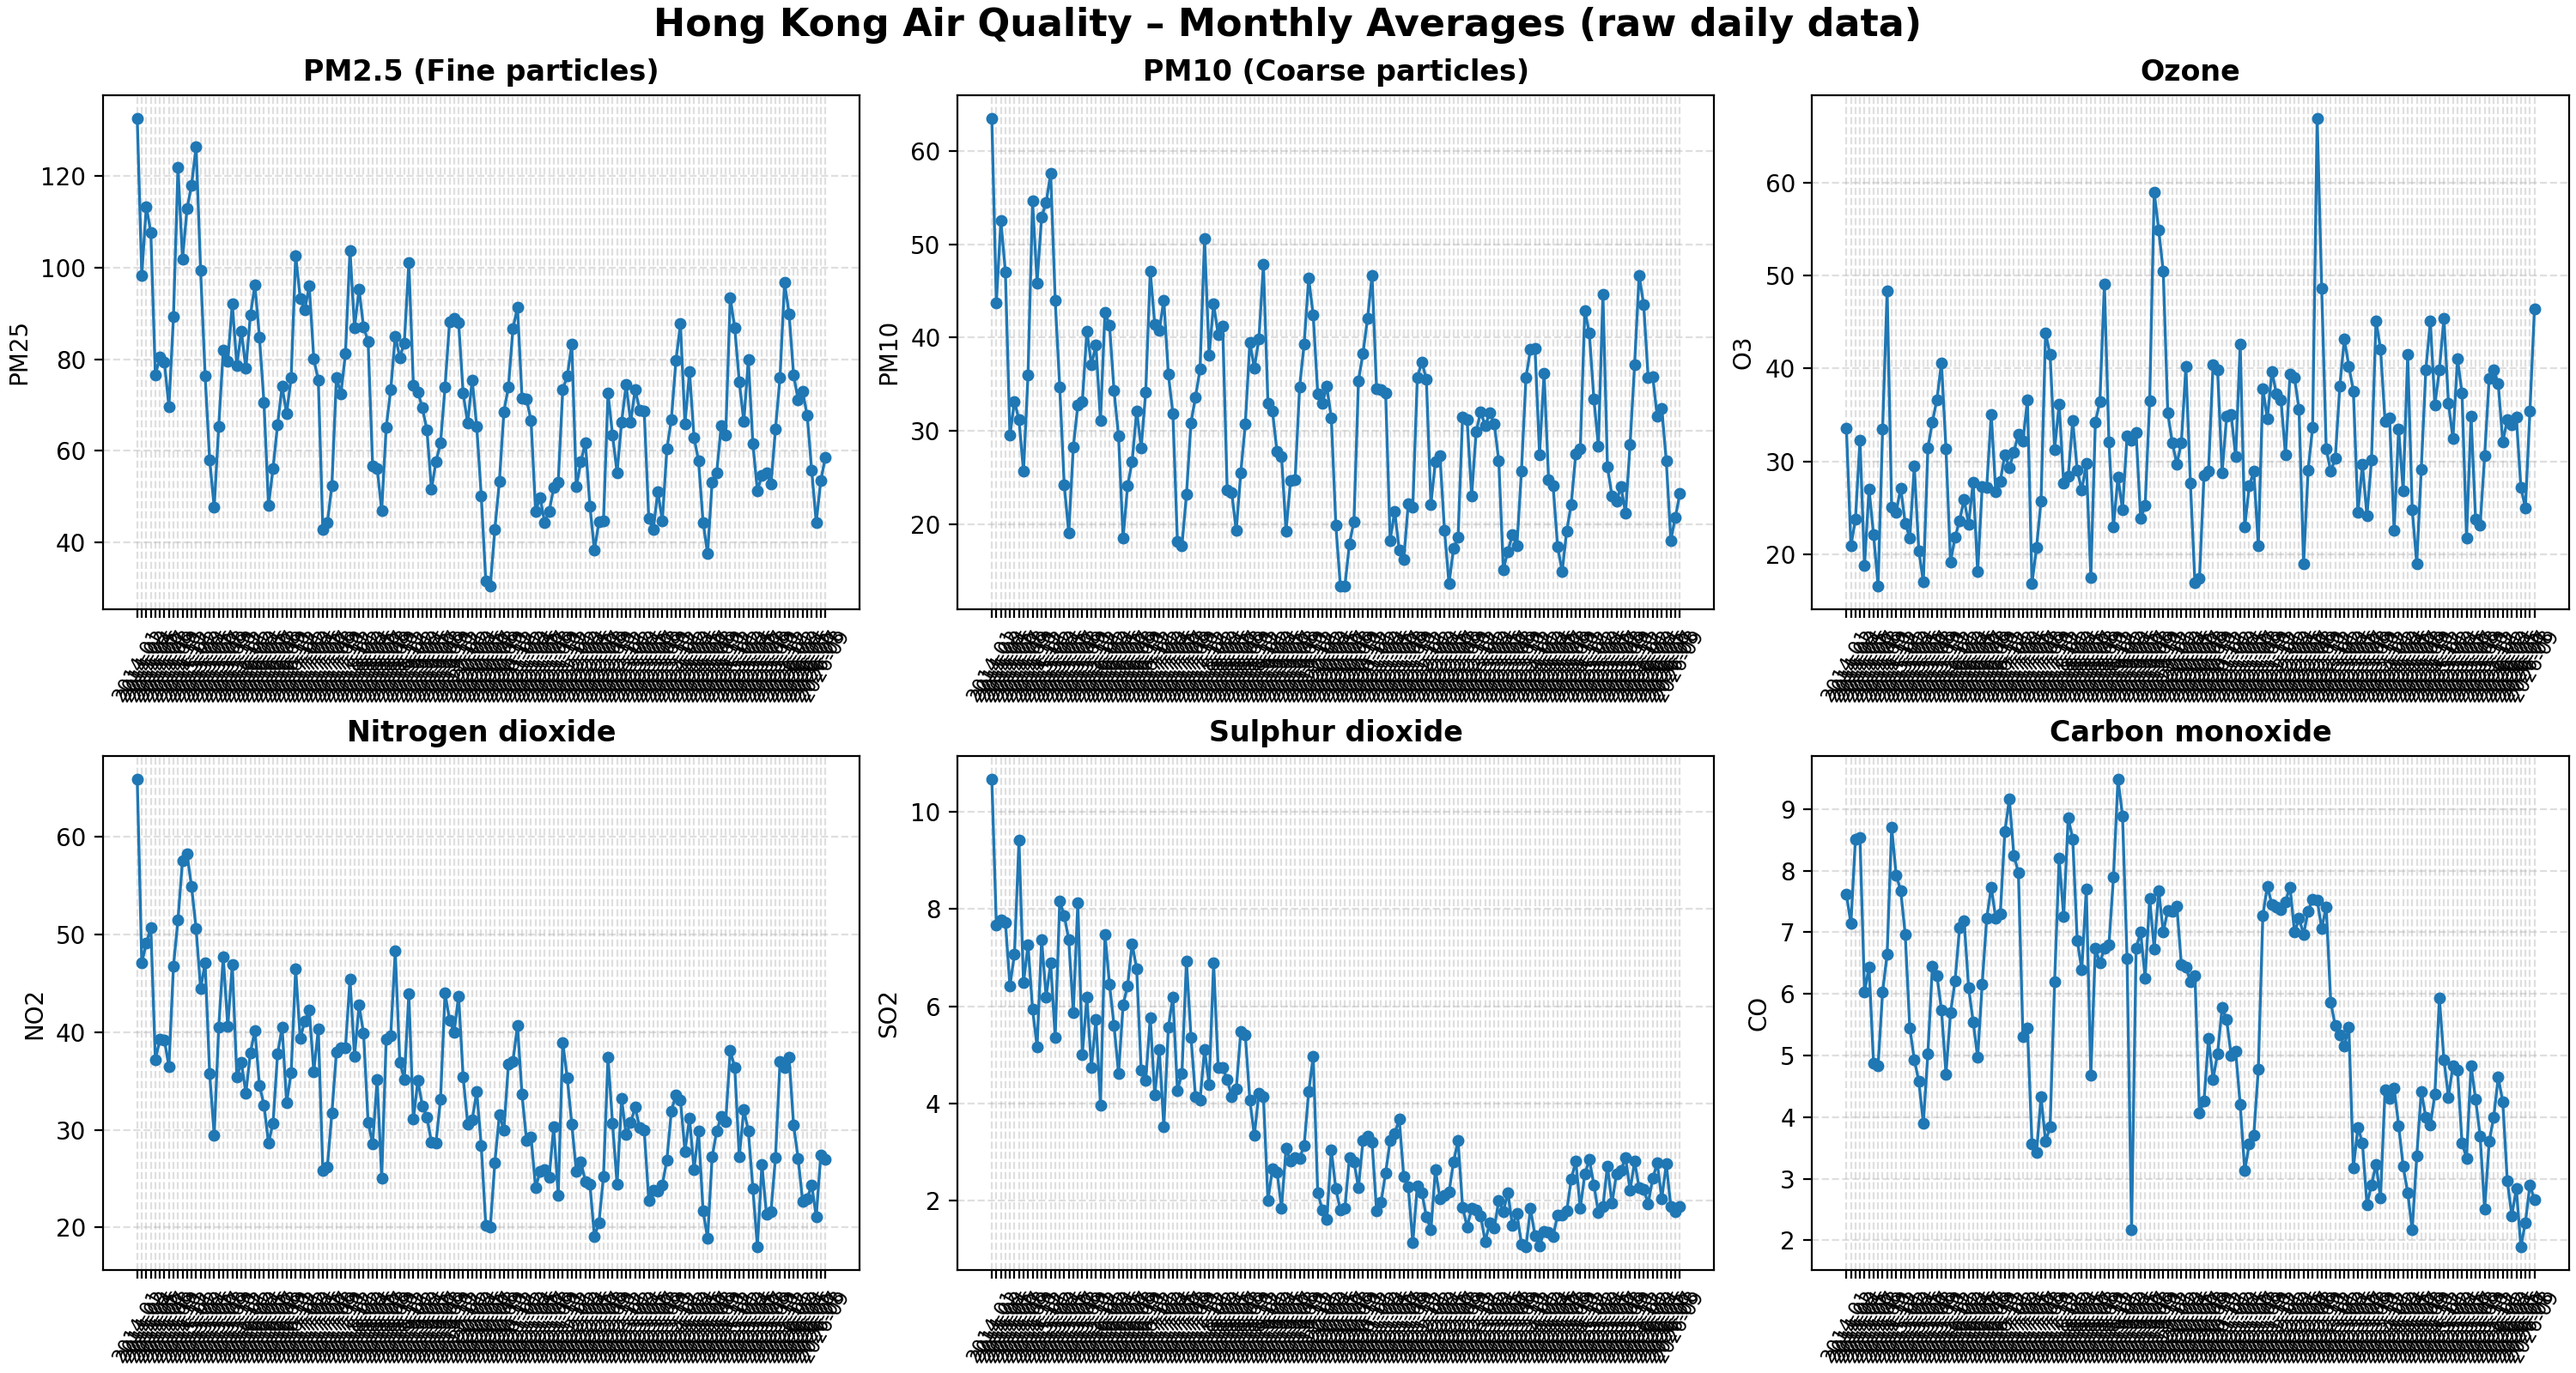
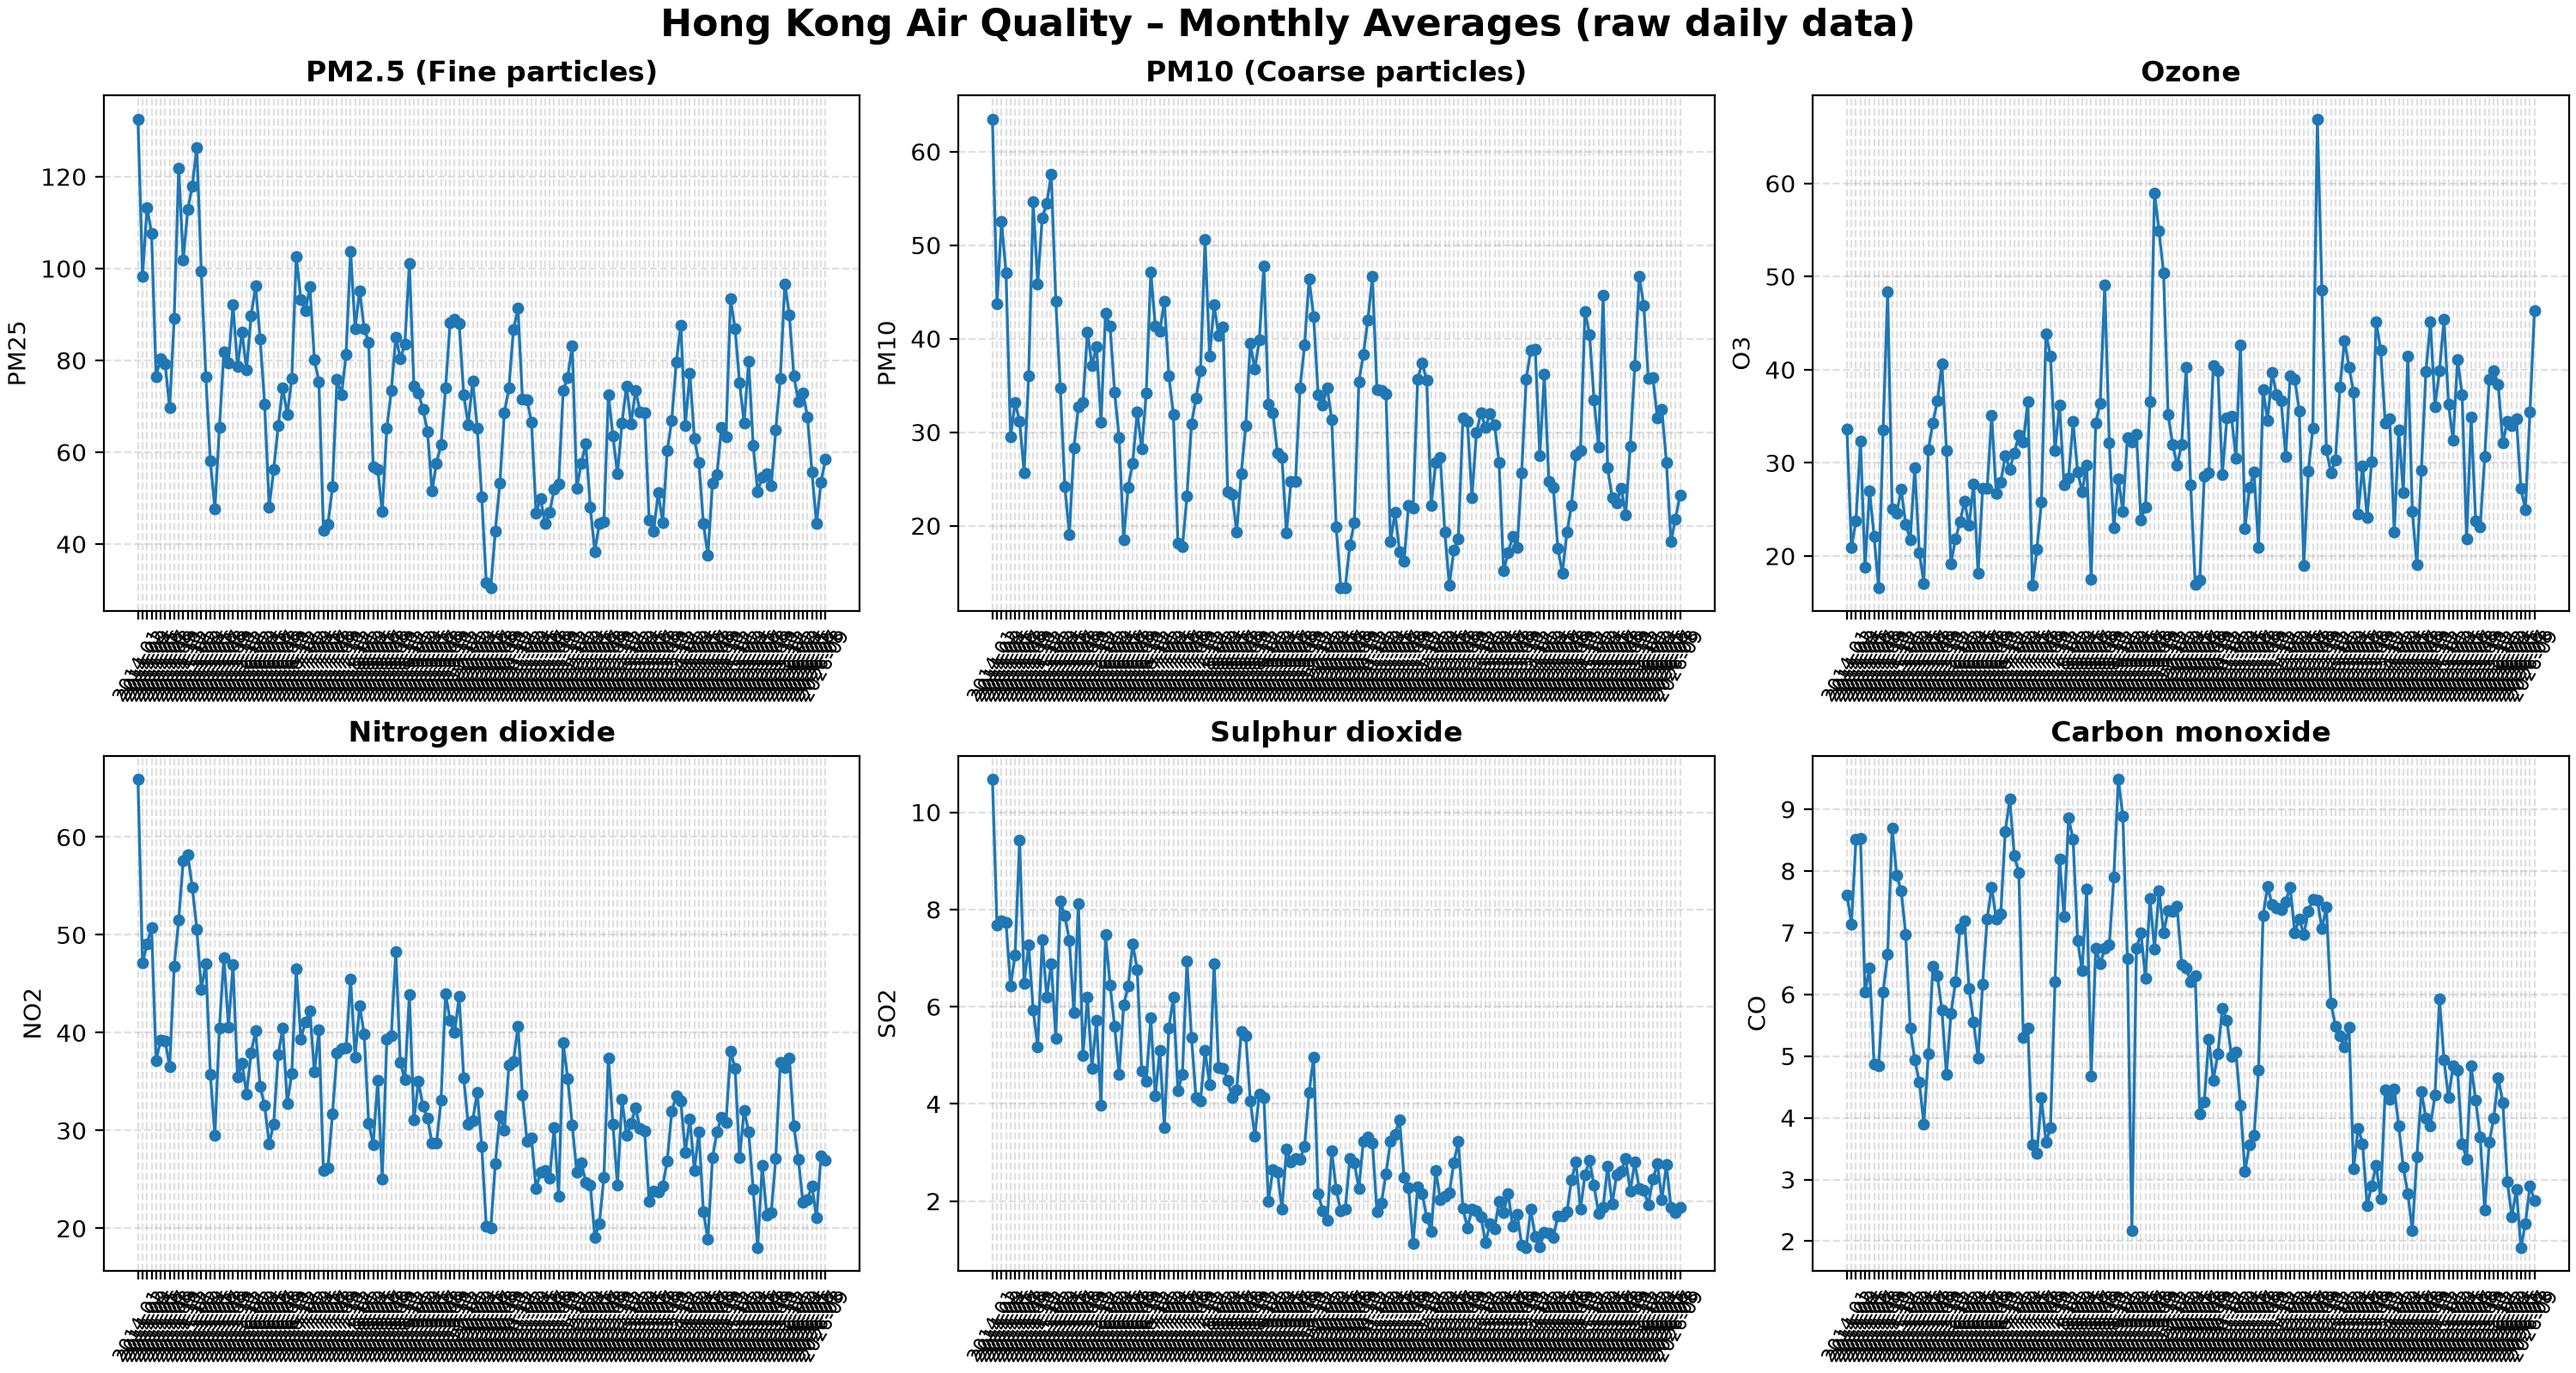
project files5

Changed region(s): [[0.341, 0.0, 0.992, 1.0], [0.0, 0.0312, 0.341, 1.0], [0.248, 0.0, 0.434, 0.0312]]

diff --git a/interactive2.py b/interactive2.py
@@ -1,0 +1,164 @@
+# /// script
+# requires-python = ">=3.10"
+# dependencies = ["matplotlib", "plotly", "pandas"]
+# ///
+from pathlib import Path
+import numpy as np
+import plotly.graph_objects as go
+from plotly.subplots import make_subplots
+from airq import load_clean
+
+HERE = Path(__file__).resolve().parent
+OUT_HTML = HERE / "site" / "index.html"
+
+FIELDS = ["pm25", "pm10", "o3", "no2", "so2", "co"]
+LABELS = ["PM2.5", "PM10", "O3", "NO2", "SO2", "CO"]
+MONTHS = ["Jan","Feb","Mar","Apr","May","Jun",
+          "Jul","Aug","Sep","Oct","Nov","Dec"]
+
+def monthly_matrix(rows):
+    accum = np.zeros((12, len(FIELDS)))
+    counts = np.zeros((12, len(FIELDS)))
+    for r in rows:
+        m = r["date"].month - 1
+        for j, f in enumerate(FIELDS):
+            v = r[f]
+            if v is not None and not np.isnan(v):
+                accum[m, j] += v
+                counts[m, j] += 1
+    with np.errstate(invalid="ignore"):
+        return np.where(counts > 0, accum / np.maximum(counts, 1), np.nan)
+
+def traces_for_months(monthly, months_so_far):
+    vmax = float(np.nanmax(monthly))
+
+    xs, ys, vals = [], [], []
+    for m in range(1, months_so_far + 1):
+        for j, lab in enumerate(LABELS):
+            v = monthly[m - 1, j]
+            if v is not None and not np.isnan(v):
+                xs.append(m)
+                ys.append(lab)
+                vals.append(v)
+
+    sizes = [10 + 35 * (v / vmax) for v in vals]
+
+    base = dict(
+        x=xs, y=ys,
+        mode="markers",
+        text=[f"{v:.1f}" for v in vals],
+        hovertemplate="%{y} · %{x}月<br>浓度: %{text} µg/m³<extra></extra>",
+    )
+
+    halo = go.Scatter(
+        **base,
+        marker=dict(
+            size=[s * 3 for s in sizes],
+            color=vals,
+            colorscale="plasma",
+            cmin=0, cmax=vmax,
+            opacity=0.18,
+            line=dict(width=0),
+        ),
+        hoverinfo="skip",
+        showlegend=False,
+    )
+
+    core = go.Scatter(
+        **base,
+        marker=dict(
+            size=sizes,
+            color=vals,
+            colorscale="plasma",
+            cmin=0, cmax=vmax,
+            opacity=0.95,
+            line=dict(width=0),
+            colorbar=dict(title="浓度"),
+        ),
+        showlegend=False,
+    )
+
+    return [halo, core]
+
+def main():
+    rows = load_clean()
+    monthly = monthly_matrix(rows)
+
+    fig = go.Figure(
+        data=traces_for_months(monthly, 1),
+        frames=[
+            go.Frame(
+                name=MONTHS[m - 1],
+                data=traces_for_months(monthly, m),
+            )
+            for m in range(2, 13)
+        ],
+    )
+
+    y_cats = LABELS
+    fig.update_yaxes(categoryorder="array", categoryarray=y_cats)
+
+    sliders_steps = []
+    for i, month in enumerate(MONTHS, start=1):
+        sliders_steps.append(dict(
+            label=month,
+            method="animate",
+            args=[[month], dict(frame=dict(duration=500, redraw=True),
+                                mode="immediate")]
+        ))
+
+    fig.update_layout(
+        template="plotly_dark",
+        paper_bgcolor="rgb(5,5,10)",
+        plot_bgcolor="rgb(5,5,10)",
+        title=dict(
+            text="香港空气质量 · 星空气泡矩阵",
+            font=dict(size=22, color="white"),
+            x=0.5,
+        ),
+        xaxis=dict(
+            title="月份",
+            range=[1, 12],
+            dtick=1,
+            gridcolor="rgba(255,255,255,0.08)",
+        ),
+        yaxis=dict(
+            title="污染物",
+            gridcolor="rgba(255,255,255,0.08)",
+        ),
+        height=650,
+        hovermode="closest",
+        updatemenus=[dict(
+            type="buttons",
+            showactive=False,
+            x=0.01,
+            y=1.12,
+            buttons=[
+                dict(
+                    label="▶ 播放月份",
+                    method="animate",
+                    args=[None, dict(frame=dict(duration=700, redraw=True),
+                                     fromcurrent=True, mode="immediate")],
+                ),
+                dict(
+                    label="⏸ 暂停",
+                    method="animate",
+                    args=[None, dict(frame=dict(duration=0, redraw=False),
+                                     mode="immediate")],
+                ),
+            ],
+        )],
+        sliders=[dict(
+            active=0,
+            currentvalue=dict(prefix="月份: "),
+            pad=dict(t=50),
+            steps=sliders_steps,
+        )],
+    )
+
+    OUT_HTML.parent.mkdir(parents=True, exist_ok=True)
+    fig.write_html(OUT_HTML, include_plotlyjs=True, full_html=True)
+    print("saved:", OUT_HTML)
+
+if __name__ == "__main__":
+    main()
